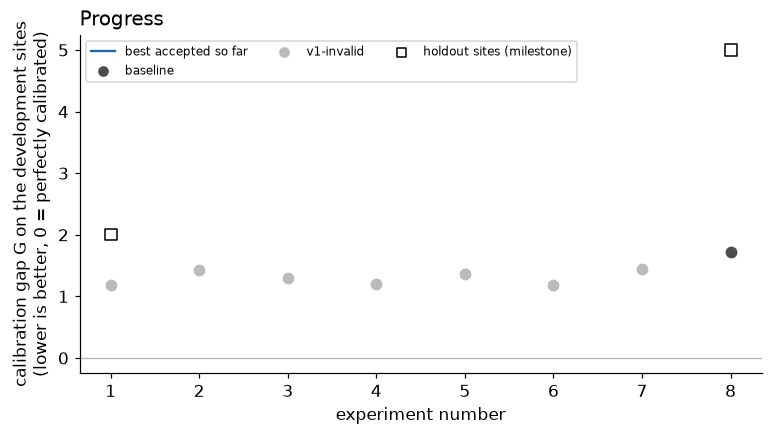
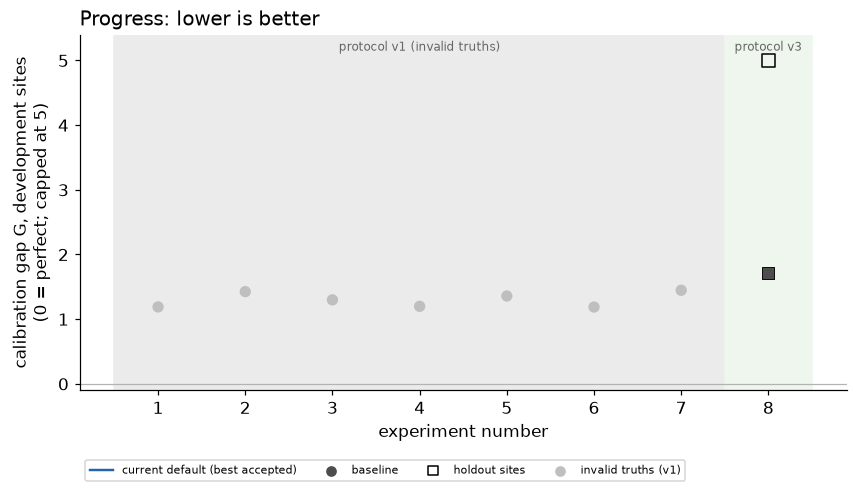
page redesign (now panel, heatmap, protocol bands, reading guide); advisor 004 read
Claude-Session: https://claude.ai/code/session_01EtMWeqbawAK9mUR4GH8rQ1

diff --git a/docs/index.html b/docs/index.html
@@ -9,9 +9,10 @@ table{border-collapse:collapse;font-size:.85rem;width:100%} th,td{border:1px sol
 th{background:#f4f6f8} code{background:#f4f6f8;padding:0 .2rem} pre{background:#f4f6f8;padding:.6rem;overflow-x:auto}
 .kpi{display:flex;gap:1rem;flex-wrap:wrap;margin:1rem 0} .kpi div{background:#f4f6f8;border-radius:8px;padding:.6rem 1rem;min-width:9rem}
 .kpi b{display:block;font-size:1.4rem} .small{color:#666;font-size:.85rem}
+.now{background:#fff8e6;border-left:4px solid #e0a800;padding:.6rem 1rem;margin:1rem 0;font-size:.95rem}
 </style></head><body>
 <h1>SARLA autoresearch: making CARDAMOM's calibration fast without making it wrong</h1>
-<p class="small">Updated 2026-09-02 09:19 PDT. An automated research loop run by a Claude Code session, with a Codex advisor
+<p class="small">Updated 2026-09-02 09:21 PDT. An automated research loop run by a Claude Code session, with a Codex advisor
 after each iteration. Repository: <a href="https://github.com/sudshu/sarla-autoresearch">sudshu/sarla-autoresearch</a>.</p>
 
 <h2>In one paragraph</h2>
@@ -27,14 +28,32 @@ holdout sites that are never used for choosing, so the method cannot be tuned to
 
 <div class="kpi">
 <div><b>8</b>experiments</div><div><b>0</b>improvements kept</div>
-<div><b>1.72</b>best G (dev sites)</div>
-<div><b>~30 min</b>per site (vs 33 h)</div>
+<div><b>1.72</b>current default G (dev sites)</div>
+<div><b>~50 min</b>per site fit (vs 33 h)</div>
 </div>
+
+<div class="now"><b>Latest:</b> Iteration 4 result (2026-09-02 09:45 PDT): v2 baseline G = 1.72 on the development sites (capped), 5.0 on the one holdout site scored<br>
+<b>Right now:</b> iteration 5: 5 fits running, 5 waiting, 2 done<br>iteration 8: 0 fits running, 12 waiting, 0 done<br>GPU hosts: h100: 3 running; kyo: 2 running<br>queue snapshot 2026-09-02 09:19 PDT</div>
+
+<h2>How to read this page</h2>
+<ul>
+<li><b>G</b> is the single score: how far the sampler's uncertainty ranges are from being right, averaged over
+several checks (do 90% and 50% intervals hold the truth 90% and 50% of the time; does the truth's probability
+density rank in the middle of the draws; are the forecasts' bands right). <b>0 is perfect</b>; about 0.3 is the
+noise between repeated runs; <b>5 means the sampler landed in the wrong place</b> entirely.</li>
+<li><b>Development sites</b> decide whether a change is kept. <b>Holdout sites</b> are only scored occasionally to
+catch changes that merely fit the development sites.</li>
+<li>Grey experiments were scored against truths later found to be invalid (protocol v1) and decide nothing.</li>
+</ul>
 
 <h2>Progress</h2>
 <img src="charts/progress.png" alt="progress chart">
-<p class="small">Each dot is one experiment (one sampler variant scored at the four development sites). Blue dots were
-kept as the new default; red were discarded. Hollow squares show the same variant scored on the four holdout sites.</p>
+<p class="small">One dot per experiment, coloured by what kind of change was tried; a star marks a change that was
+kept, a square the baseline. Hollow squares are the same variant on the holdout sites. The blue line is the current
+default.</p>
+<img src="charts/heatmap.png" alt="per-site heatmap">
+<p class="small">Same experiments, one row each, one column per site. Green cells are well-calibrated fits, red
+cells are failures. A variant that fixes the red columns without turning green ones yellow is what we are after.</p>
 <img src="charts/categories.png" alt="categories chart">
 <img src="charts/sites.png" alt="per-site chart">
 <p class="small">Left: fraction of the 89 parameters whose 90% posterior interval contains the truth (should be 0.90).
@@ -281,6 +300,12 @@ ecological constraints reject (see the log entry "Protocol v2"); they are kept f
 </ul>
 <p>  posterior&#x27;s basin. Iteration 8 (surgery engine, three variants) is next in</p>
 <p>  the queue after the remaining kernel jobs of iteration 5.</p>
+<ul>
+<li>Advisor (iteration 4) concurs: surgery first, then seed starts and</li>
+</ul>
+<p>  tangent-volume weights (all queued), restart tuning afterwards; kernel tuning</p>
+<p>  paused until the basin is shown to be represented. Page redesigned: live</p>
+<p>  &quot;right now&quot; panel, per-site heatmap, protocol bands, reading guide.</p>
 
 <h2>Idea bank</h2>
 <h2>Idea bank</h2>
@@ -298,7 +323,7 @@ ecological constraints reject (see the log entry "Protocol v2"); they are kept f
 <tr><td>H3</td><td>1</td><td>running (512: discarded = baseline, faster; 128/256 running)</td><td>claude</td><td>moves</td><td>Chart move mixed with Goodman-Weare stretch moves (CARDAMOM mode 4 on the GPU), 512 walkers</td><td>kernel=chart_stretch mix=0.5 n_chains=512 n_steps=4000</td></tr>
 <tr><td>H4</td><td>2</td><td>running</td><td>claude</td><td>moves</td><td>Adaptive pooled covariance (Haario) learned from the ensemble during burn-in, mixed 50/50 with chart moves</td><td>kernel=chart_adaptcov mix=0.5</td></tr>
 <tr><td>H5</td><td>1</td><td>running</td><td>claude</td><td>charts</td><td>Inflate chart variance in flat (prior-capped) eigendirections x3</td><td>flat_mult=3</td></tr>
-<tr><td>H6</td><td>4</td><td>open</td><td>claude</td><td>restarts</td><td>Restarts through the whole burn-in, tighter gap</td><td>restart_until=0.5 restart_gap=50 restart_every=250</td></tr>
+<tr><td>H6</td><td>3</td><td>open</td><td>claude+codex</td><td>restarts</td><td>Restarts through the whole burn-in, tighter gap</td><td>restart_until=0.5 restart_gap=50 restart_every=250</td></tr>
 <tr><td>H7</td><td>3</td><td>open</td><td>claude</td><td>budget</td><td>64 L-BFGS seeds instead of 128, evaluations moved to sampling</td><td>n_seeds=64 n_steps=...</td></tr>
 <tr><td>H8</td><td>3</td><td>open</td><td>claude</td><td>speed</td><td>Cheaper atlas: 3 rounds, 2048 audit draws (speed path)</td><td>atlas_rounds=3 n_audit=2048</td></tr>
 <tr><td>H9</td><td>1</td><td>running</td><td>claude+codex</td><td>starts</td><td>Chains start from all feasible seeds of the main region, not chart centres; motivated by the 82/18 mode inversion at NL-Loo (fast path never finds the dominant high-allocation mode)</td><td>start_policy=seeds</td></tr>
@@ -315,6 +340,7 @@ ecological constraints reject (see the log entry "Protocol v2"); they are kept f
 <tr><td>S8</td><td>2</td><td>open</td><td>claude</td><td>atlas_geometry</td><td>Audit sample size 16384 with ESS-based stop: can fewer downstream MCMC evaluations achieve the same G after a better atlas?</td><td>n_audit=16384 sg_stop_ess=0.3 n_steps=16000</td></tr>
 <tr><td>S9</td><td>3</td><td>open</td><td>claude</td><td>atlas_geometry</td><td>Warm-up (H12) + surgery: does a better seed population change which operations fire?</td><td>warmup_steps=1000 atlas_engine=surgery</td></tr>
 <tr><td>S10</td><td>3</td><td>open</td><td>claude</td><td>atlas_geometry</td><td>Merge criterion: merge_tol 0.5 vs 2 (cost vs coverage)</td><td>sg_merge_tol=2.0</td></tr>
+<tr><td>P1</td><td>-</td><td>rule</td><td>codex (iter 4)</td><td>strategy</td><td>Kernel-tuning family (H1-H4, H11) paused until a valid experiment shows the posterior basin is represented in the atlas; local mixing cannot repair a missing basin</td><td>-</td></tr>
 </table>
 
 <h2>Protocol (frozen)</h2>

diff --git a/tools/build_site.py b/tools/build_site.py
@@ -54,34 +54,82 @@ def load_aggregates():
     return out
 
 
+CAT_COLOR = {"baseline": "#4d4d4d", "walkers": "#8c6bb1", "moves": "#1f77b4", "charts": "#ff7f0e",
+             "atlas": "#2ca02c", "atlas_geometry": "#d62728", "starts": "#17becf", "restarts": "#bcbd22",
+             "budget": "#7f7f7f", "speed": "#e377c2", "other": "#999999"}
+
+
 def chart_progress(runs):
-    fig, ax = plt.subplots(figsize=(8, 4))
+    fig, ax = plt.subplots(figsize=(9, 4.2))
     if runs:
-        x = [r["run"] for r in runs]
-        y = [r["metric"] for r in runs]
+        # protocol bands
+        pv = [r.get("protocol_version", 1) for r in runs]
+        xs = [r["run"] for r in runs]
+        for v in sorted(set(pv)):
+            sel = [x for x, p in zip(xs, pv) if p == v]
+            ax.axvspan(min(sel) - 0.5, max(sel) + 0.5, color="0.92" if v < FIRST_VALID_PROTOCOL else "#eef6ee", zorder=0)
+            ax.text(np.mean(sel), 5.15, f"protocol v{v}" + (" (invalid truths)" if v < FIRST_VALID_PROTOCOL else ""),
+                    ha="center", fontsize=8, color="0.4")
         best, bests = np.inf, []
         for r in runs:
-            if r["status"] in ("keep", "baseline") and r["metric"] is not None:
-                best = min(best, r["metric"])
+            g = None if r["metric"] is None else min(r["metric"], 5.0)
+            valid = r["status"] != "v1-invalid"
+            if valid and r["status"] in ("keep", "baseline") and g is not None:
+                best = min(best, g)
             bests.append(best if np.isfinite(best) else np.nan)
-        for r in runs:
-            if r["metric"] is None:
+            if g is None:
                 continue
-            ax.scatter(r["run"], r["metric"], color=STATUS_COLOR.get(r["status"], "k"), s=45, zorder=3)
+            col = CAT_COLOR.get(r.get("category") or "other", "#999") if valid else "0.75"
+            marker = {"keep": "*", "baseline": "s", "discard": "o", "dev-only": "D", "crash": "x"}.get(r["status"], "o")
+            ax.scatter(r["run"], g, color=col, marker=marker, s=110 if marker == "*" else 55, zorder=3,
+                       edgecolor="k" if valid else "none", linewidth=0.6)
             h = r["metrics"].get("G_holdout")
-            if h is not None:
-                ax.scatter(r["run"], h, marker="s", facecolor="none", edgecolor="k", s=60, zorder=3)
-        ax.step(x, bests, where="post", color="#2166ac", lw=1.5, label="best accepted so far")
-        for st, c in STATUS_COLOR.items():
-            if any(r["status"] == st for r in runs):
-                ax.scatter([], [], color=c, label=st)
-        ax.scatter([], [], marker="s", facecolor="none", edgecolor="k", label="holdout sites (milestone)")
-        ax.legend(fontsize=8, ncol=3)
+            if h is not None and valid:
+                ax.scatter(r["run"], min(h, 5.0), marker="s", facecolor="none", edgecolor="k", s=70, zorder=3)
+        ax.step(xs, bests, where="post", color="#2166ac", lw=1.6, label="current default (best accepted)")
+        for c, col in CAT_COLOR.items():
+            if any((r.get("category") or "other") == c and r["status"] != "v1-invalid" for r in runs):
+                ax.scatter([], [], color=col, label=c)
+        ax.scatter([], [], marker="s", facecolor="none", edgecolor="k", label="holdout sites")
+        ax.scatter([], [], color="0.75", label="invalid truths (v1)")
+        ax.legend(fontsize=7.5, ncol=4, loc="upper left", bbox_to_anchor=(0, -0.18))
     ax.set_xlabel("experiment number")
-    ax.set_ylabel("calibration gap G on the development sites\n(lower is better, 0 = perfectly calibrated)")
-    ax.set_title("Progress", loc="left")
+    ax.set_ylabel("calibration gap G, development sites\n(0 = perfect; capped at 5)")
+    ax.set_ylim(-0.1, 5.4)
+    ax.set_title("Progress: lower is better", loc="left")
     ax.axhline(0, color="0.7", lw=0.8)
     fig.savefig(os.path.join(CH, "progress.png"))
+    plt.close(fig)
+
+
+def chart_heatmap(aggs, runs):
+    """Variants (valid runs) x sites, colour = capped G."""
+    rows = [r for r in runs if r["status"] != "v1-invalid" and r["metric"] is not None]
+    if not rows:
+        return
+    sites = DEV + HOLDOUT
+    M = np.full((len(rows), len(sites)), np.nan)
+    for i, r in enumerate(rows):
+        ps = r["metrics"].get("per_site", {})
+        for j, s_ in enumerate(sites):
+            if str(s_) in ps:
+                M[i, j] = min(ps[str(s_)], 5.0)
+    fig, ax = plt.subplots(figsize=(9, 0.6 + 0.42 * len(rows)))
+    im = ax.imshow(M, cmap="RdYlGn_r", vmin=0, vmax=5, aspect="auto")
+    ax.set_xticks(range(len(sites)))
+    ax.set_xticklabels([NAMES[s_].split(" ")[0] + ("" if s_ in DEV else " (hold)") for s_ in sites], rotation=35, ha="right", fontsize=8)
+    ax.set_yticks(range(len(rows)))
+    ax.set_yticklabels([f"#{r['run']} {r['variant']}" for r in rows], fontsize=8)
+    for i in range(len(rows)):
+        for j in range(len(sites)):
+            if np.isfinite(M[i, j]):
+                ax.text(j, i, f"{M[i, j]:.1f}", ha="center", va="center", fontsize=7,
+                        color="w" if M[i, j] > 2.5 else "k")
+    ax.axvline(len(DEV) - 0.5, color="k", lw=1)
+    cb = fig.colorbar(im, ax=ax, fraction=0.03, pad=0.02)
+    cb.set_label("G (0 good, 5 = failed)", fontsize=8)
+    ax.set_title("Where each variant succeeds or fails, by site (green good, red bad)", loc="left", fontsize=10)
+    fig.savefig(os.path.join(CH, "heatmap.png"))
     plt.close(fig)
 
 
@@ -198,11 +246,39 @@ def inline(s):
     return s
 
 
+def now_panel():
+    ROOT = os.path.dirname(AR)
+    st_path = os.path.join(ROOT, "runs", "autoresearch", "status.json")
+    lines = []
+    if os.path.exists(st_path):
+        st = json.load(open(st_path))
+        by_it = {}
+        for jid, j in st["jobs"].items():
+            if jid.startswith("i999"):
+                continue
+            it = jid.split("_")[0]
+            by_it.setdefault(it, {}).setdefault(j["state"], 0)
+            by_it[it][j["state"]] += 1
+        for it in sorted(by_it):
+            c = by_it[it]
+            if c.get("running") or c.get("pending"):
+                lines.append(f"iteration {int(it[1:])}: {c.get('running', 0)} fits running, {c.get('pending', 0)} waiting, {c.get('done', 0)} done")
+        hosts = [f"{h}: {'down' if 'error' in v else str(len(v['running'])) + ' running'}" for h, v in st["hosts"].items()]
+        lines.append("GPU hosts: " + "; ".join(hosts))
+        lines.append(f"queue snapshot {time.strftime('%Y-%m-%d %H:%M %Z', time.localtime(st['time']))}")
+    log = open(os.path.join(AR, "LOG.md")).read()
+    heads = [l[3:] for l in log.splitlines() if l.startswith("## ")]
+    latest = heads[-1] if heads else ""
+    return latest, lines
+
+
 def build():
     os.makedirs(CH, exist_ok=True)
     runs = load_runs()
     aggs = load_aggregates()
     chart_progress(runs); chart_categories(runs); chart_sites(aggs, runs); chart_speed(aggs, runs)
+    chart_heatmap(aggs, runs)
+    latest, now_lines = now_panel()
     kept = [r for r in runs if r["status"] in ("keep", "baseline")]
     best = min((r["metric"] for r in kept if r["metric"] is not None), default=None)
     rows = "".join(
@@ -228,6 +304,7 @@ table{{border-collapse:collapse;font-size:.85rem;width:100%}} th,td{{border:1px 
 th{{background:#f4f6f8}} code{{background:#f4f6f8;padding:0 .2rem}} pre{{background:#f4f6f8;padding:.6rem;overflow-x:auto}}
 .kpi{{display:flex;gap:1rem;flex-wrap:wrap;margin:1rem 0}} .kpi div{{background:#f4f6f8;border-radius:8px;padding:.6rem 1rem;min-width:9rem}}
 .kpi b{{display:block;font-size:1.4rem}} .small{{color:#666;font-size:.85rem}}
+.now{{background:#fff8e6;border-left:4px solid #e0a800;padding:.6rem 1rem;margin:1rem 0;font-size:.95rem}}
 </style></head><body>
 <h1>SARLA autoresearch: making CARDAMOM's calibration fast without making it wrong</h1>
 <p class="small">Updated {now}. An automated research loop run by a Claude Code session, with a Codex advisor
@@ -246,14 +323,32 @@ holdout sites that are never used for choosing, so the method cannot be tuned to
 
 <div class="kpi">
 <div><b>{n_exp}</b>experiments</div><div><b>{n_keep}</b>improvements kept</div>
-<div><b>{'--' if best is None else f'{best:.2f}'}</b>best G (dev sites)</div>
-<div><b>~30 min</b>per site (vs 33 h)</div>
+<div><b>{'--' if best is None else f'{best:.2f}'}</b>current default G (dev sites)</div>
+<div><b>~50 min</b>per site fit (vs 33 h)</div>
 </div>
+
+<div class="now"><b>Latest:</b> {html.escape(latest)}<br>
+<b>Right now:</b> {"<br>".join(html.escape(l) for l in now_lines) or "idle"}</div>
+
+<h2>How to read this page</h2>
+<ul>
+<li><b>G</b> is the single score: how far the sampler's uncertainty ranges are from being right, averaged over
+several checks (do 90% and 50% intervals hold the truth 90% and 50% of the time; does the truth's probability
+density rank in the middle of the draws; are the forecasts' bands right). <b>0 is perfect</b>; about 0.3 is the
+noise between repeated runs; <b>5 means the sampler landed in the wrong place</b> entirely.</li>
+<li><b>Development sites</b> decide whether a change is kept. <b>Holdout sites</b> are only scored occasionally to
+catch changes that merely fit the development sites.</li>
+<li>Grey experiments were scored against truths later found to be invalid (protocol v1) and decide nothing.</li>
+</ul>
 
 <h2>Progress</h2>
 <img src="charts/progress.png" alt="progress chart">
-<p class="small">Each dot is one experiment (one sampler variant scored at the four development sites). Blue dots were
-kept as the new default; red were discarded. Hollow squares show the same variant scored on the four holdout sites.</p>
+<p class="small">One dot per experiment, coloured by what kind of change was tried; a star marks a change that was
+kept, a square the baseline. Hollow squares are the same variant on the holdout sites. The blue line is the current
+default.</p>
+<img src="charts/heatmap.png" alt="per-site heatmap">
+<p class="small">Same experiments, one row each, one column per site. Green cells are well-calibrated fits, red
+cells are failures. A variant that fixes the red columns without turning green ones yellow is what we are after.</p>
 <img src="charts/categories.png" alt="categories chart">
 <img src="charts/sites.png" alt="per-site chart">
 <p class="small">Left: fraction of the 89 parameters whose 90% posterior interval contains the truth (should be 0.90).

diff --git a/experiments/004/advisor.md b/experiments/004/advisor.md
@@ -1,0 +1,35 @@
+# Codex advisor, iteration 004
+
+model default (config.toml), reasoning effort high, rc 0
+
+## 1. ASSESSMENT
+
+This is the first valid v3 baseline, so no calibration term can be claimed to have improved relative to earlier runs; protocol-v1 comparisons are invalid. Capped \(G_{\rm dev}=1.717\), but performance is strongly site-dependent: DE-Gri 0.817 and BE-Vie 1.113 are adequate, NL-Loo is worse at 1.416, and DK-Sor dominates at 3.523 capped-site aggregation (raw seed mean 6.532).
+
+The failure pattern is basin miss rather than ordinary chain sticking. NL-Loo and DK-Sor have rank 1.0, severe projection undercoverage, and zero `stuck_frac`: all chains can agree with each other while occupying the wrong basin. DK-Sor is catastrophic—cover90 0.034, cover50 0, rms_z 31.49—and highly seed-sensitive (raw G 14.03, 2.59, 2.98). NL-Loo is moderately seed-sensitive (1.66, 0.94, 1.66); BE-Vie and DE-Gri are comparatively consistent.
+
+CZ-wet’s single holdout result is also catastrophic (raw G 5.186): cover90 0.225, rms_z 6.54, and rank 1.0. Thus there is no evidence of development-site overfitting yet—there is no candidate change—but clear evidence that baseline failure generalizes beyond development sites. No conclusion about truth-realisation overfitting is possible without dev-B results.
+
+## 2. RISKS
+
+The reported `terms` are not seed averages: their means reproduce the first seed’s G (e.g. DK-Sor 14.025), while `per_site.G` averages three seeds. Term-level interpretation is therefore confounded with kernel seed and should be aggregated per seed before decisions.
+
+Capping prevents DK-Sor from overwhelming selection, but hides enormous changes: reducing raw G from 14 to 5 produces no capped benefit. Conversely, delta 0.859 remains so large that meaningful multi-site gains may not qualify.
+
+`stuck_frac` only detects chains worse than the run’s best chain; it cannot detect population-wide convergence to the same wrong basin. Holdout evidence is only one site and one seed, and wall time is 3,060 seconds—about 51 minutes, materially slower than the stated ~30-minute target.
+
+## 3. NEXT STEPS
+
+1. **[NEW CODE]** Test topology-aware atlas repair first because three sites show shared-basin failure rather than within-basin mixing failure: `atlas_engine="surgery"`.
+
+2. Test seed-distributed initialization because NL-Loo’s known mode inversion and strong seed effect make broader basin coverage the cheapest direct intervention: `start_policy="seeds"`.
+
+3. **[NEW CODE]** Give extended ridges proposal mass proportional to their tangent volume, which should reduce systematic omission of broad basins: `atlas_engine="surgery"`, `sg_weight_rule="volume"`.
+
+4. Test more aggressive discovery during burn-in because zero relative stuckness does not imply the correct region was found: `restart_gap=50`, `restart_every=250`, `restart_until=0.5`.
+
+5. If basic surgery fires useful repairs, increase repair capacity in a pre-registered follow-up: `atlas_engine="surgery"`, `sg_flag_topk=16`, `atlas_rounds=10`.
+
+## 4. STOP/CONTINUE
+
+Continue the atlas-coverage and initialization families. Abandon pure walker-count inflation as a primary strategy, and pause local-kernel tuning (DE/stretch/adaptive covariance) until a valid-v3 experiment demonstrates that the correct basin is already represented; local mixing cannot repair a missing basin.

diff --git a/autoresearch.ideas.md b/autoresearch.ideas.md
@@ -16,7 +16,7 @@ Priority 1 = try first. Variant configs live in `variants/`.
 | H3 | 1 | running (512: discarded = baseline, faster; 128/256 running) | claude | moves | Chart move mixed with Goodman-Weare stretch moves (CARDAMOM mode 4 on the GPU), 512 walkers | kernel=chart_stretch mix=0.5 n_chains=512 n_steps=4000 |
 | H4 | 2 | running | claude | moves | Adaptive pooled covariance (Haario) learned from the ensemble during burn-in, mixed 50/50 with chart moves | kernel=chart_adaptcov mix=0.5 |
 | H5 | 1 | running | claude | charts | Inflate chart variance in flat (prior-capped) eigendirections x3 | flat_mult=3 |
-| H6 | 4 | open | claude | restarts | Restarts through the whole burn-in, tighter gap | restart_until=0.5 restart_gap=50 restart_every=250 |
+| H6 | 3 | open | claude+codex | restarts | Restarts through the whole burn-in, tighter gap | restart_until=0.5 restart_gap=50 restart_every=250 |
 | H7 | 3 | open | claude | budget | 64 L-BFGS seeds instead of 128, evaluations moved to sampling | n_seeds=64 n_steps=... |
 | H8 | 3 | open | claude | speed | Cheaper atlas: 3 rounds, 2048 audit draws (speed path) | atlas_rounds=3 n_audit=2048 |
 | H9 | 1 | running | claude+codex | starts | Chains start from all feasible seeds of the main region, not chart centres; motivated by the 82/18 mode inversion at NL-Loo (fast path never finds the dominant high-allocation mode) | start_policy=seeds |
@@ -33,3 +33,4 @@ Priority 1 = try first. Variant configs live in `variants/`.
 | S8 | 2 | open | claude | atlas_geometry | Audit sample size 16384 with ESS-based stop: can fewer downstream MCMC evaluations achieve the same G after a better atlas? | n_audit=16384 sg_stop_ess=0.3 n_steps=16000 |
 | S9 | 3 | open | claude | atlas_geometry | Warm-up (H12) + surgery: does a better seed population change which operations fire? | warmup_steps=1000 atlas_engine=surgery |
 | S10 | 3 | open | claude | atlas_geometry | Merge criterion: merge_tol 0.5 vs 2 (cost vs coverage) | sg_merge_tol=2.0 |
+| P1 | - | rule | codex (iter 4) | strategy | Kernel-tuning family (H1-H4, H11) paused until a valid experiment shows the posterior basin is represented in the atlas; local mixing cannot repair a missing basin | - |

diff --git a/LOG.md b/LOG.md
@@ -183,3 +183,7 @@ setup notes. Times are US Pacific.
 - Consequence for the research direction: the atlas must find and cover the
   posterior's basin. Iteration 8 (surgery engine, three variants) is next in
   the queue after the remaining kernel jobs of iteration 5.
+- Advisor (iteration 4) concurs: surgery first, then seed starts and
+  tangent-volume weights (all queued), restart tuning afterwards; kernel tuning
+  paused until the basin is shown to be represented. Page redesigned: live
+  "right now" panel, per-site heatmap, protocol bands, reading guide.
